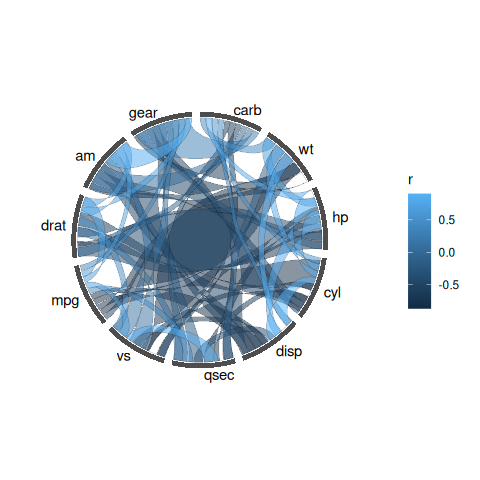
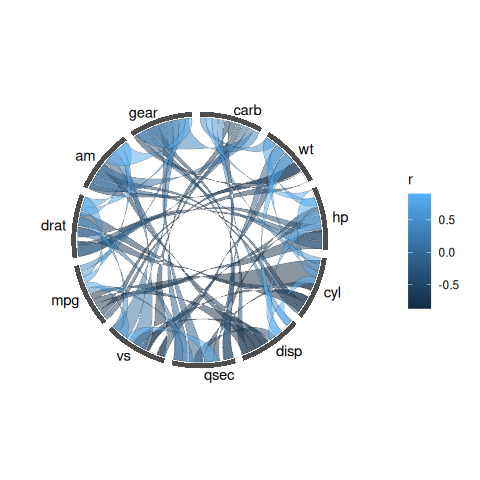
Fix the mirrored rotation of labels and axis ticks (R2)
Two independent faults, both in the one function meant to be the single
source of label angles.

1. screen_angle() flipped `u` again for reverse == "theta", but
   panel_params$arc already carries the reversal (it is the decreasing
   span c(4.712, -1.571) on a counter-clockwise circle). The two flips
   cancelled, so a reversed circle reported the same angles as a forward
   one and rotate = TRUE drew mirrored text.

2. It returns the *radial* direction (from the centre outward), and the
   callers used it directly as grid's `rot`. grid measures from +x
   counter-clockwise while the radial angle is from 12 o'clock clockwise,
   so they differ by 90 degrees: node labels lay across their arc, and the
   track axis drew its break labels in a vertical column.

The rotation is now `radial - 90`, folded into (-90, 90] so no label hangs
upside down. Both geom_node_text() and geom_track_axis() use that rule, so
the axis labels now read outward along the ruler as spec 6.5 asks.

Also adds the test spec 5.4 has been asking for since the beginning: for
every clockwise x start combination, screen_angle() must match the radial
direction transform() actually produces, to 1e-6. A tangent-based or
atan2-derived angle fails it.

Tests: 710 passing. Axis snapshot re-seeded. R CMD check --no-manual:
0/0/0.

Changed region(s): [[0.1875, 0.25, 0.6562, 0.75]]

diff --git a/notes/spec.md b/notes/spec.md
@@ -371,7 +371,10 @@ coord_arc(xlim = c(-1, 1), ylim = NULL, clip = "off")
 
 ### 5.4 屏幕角契约（A2）⚠ 决策
 
-**屏幕角 = 标签在画布上的旋转角**（度）。它是 `geom_node_text()`、`geom_sector_label()`
+**屏幕角 = 点从圆心指向外的方向**（度，12 点为 0、顺时针为正）。**不是切线**——
+标签（和轴刻度）沿径向读，文字基线再相对它转 90°（见下）。
+
+**屏幕角 = 标签在画布上的旋转角**（度，转换前）。它是 `geom_node_text()`、`geom_sector_label()`
 与 `GeomTrackAxis` 的共同输入，**只有一个来源**。
 
 **唯一来源：坐标对象导出的 `screen_angle()` 方法。**
@@ -401,6 +404,10 @@ CoordCircos$screen_angle <- function(self, panel_params, theta) {
      屏幕角以 12 点为 0，所以"左"对应 `sin`；用 `cos` 翻的是**下半圈**（R6）。
    - `rotate = TRUE`：旋转角 = 屏幕角；左半圈 + 180°，`hjust = 1`。
 4. **`coord_arc()` 的 `screen_angle()` 恒返回 0**（线性布局不旋转）。
+   ⚠ 实现里不要为 `reverse == "theta"` 再翻一次 `u`：`arc` 本身已经是递减的
+   `c(start + 2π, start)`，再翻一次正好抵消，逆时针圈会报出和顺时针一样的角度（R2）。
+   **文字旋转角 = 径向角 − 90°**，再折叠到 (−90, 90] 以免倒立；节点标签与 `geom_track_axis()`
+   共用这条规则（轴刻度原本直接把径向角当 `rot`，文字于是竖成一列）。
 5. **测试**：对 `clockwise = TRUE/FALSE` × `start ∈ {0, -π/2, π}` 的每一种组合，
    屏幕角与"把 (r, θ) 和 (r+ε, θ) 两点 `transform()` 后的连线方向"一致（容差 `1e-6`）。
 6. `circos_screen_angle()` 这个内部函数**删除**，不要留兼容包装。

diff --git a/notes/issues.md b/notes/issues.md
@@ -425,6 +425,26 @@ w(0)=2.41  w(中)=0.29  w(1)=2.00   # 中段收成 1/8
 `"both edges of a ribbon are the same curve entered from opposite ends (R20)"`。
 7 张快照重播（形状确实变了）。
 
+### B27. 旋转标签镜像 / 轴刻度竖成一列 —— **已修（2026-10-20，审核 R2）**
+
+两层原因：
+
+1. `screen_angle()` 里对 `reverse == "theta"` **又翻了一次 `u`**，而 `panel_params$arc`
+   已经是递减的 `c(4.712, -1.571)`。两次反转互相抵消，逆时针圈报出和顺时针一样的角度
+   ——`rotate = TRUE` 的标签于是镜像。
+2. 返回的是**径向角**（点从圆心指向外的方向），但代码把它**直接当 `rot` 用**。
+   grid 的文字角度从 +x 起逆时针，径向角从 12 点起顺时针，两者差 90°：
+   文字因此横跨弧线（节点标签）或竖成一列（轴刻度）。
+
+修法：`screen_angle()` 明确返回径向角、只做一次方向映射；
+**文字旋转角 = 径向角 − 90°**，再折到 (−90, 90] 防倒立。节点标签与 `geom_track_axis()`
+共用这条规则。
+
+回归测试（spec §5.4-5 要求、一直没写的那条）：
+`"screen_angle is the radial direction of the point"`——对 `clockwise × start` 的每种组合，
+断言 `screen_angle()` 与 `transform()` 出来的径向方向逐点一致（容差 1e-6）；
+外加 `"rotated labels run along the ring, upright on both halves"`。
+
 ---
 
 ## C 类：测试与工程（不阻塞，但要有）
